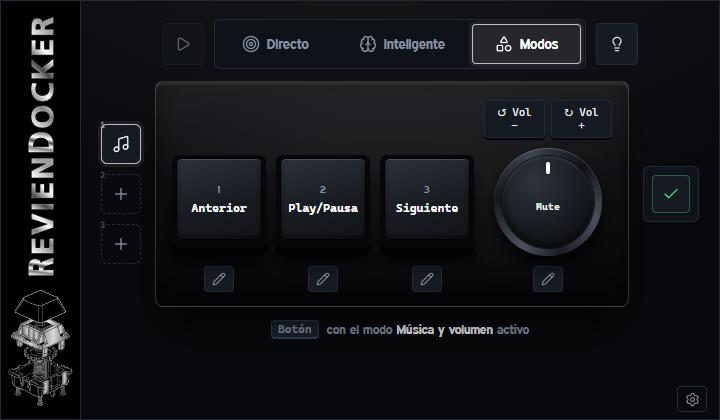
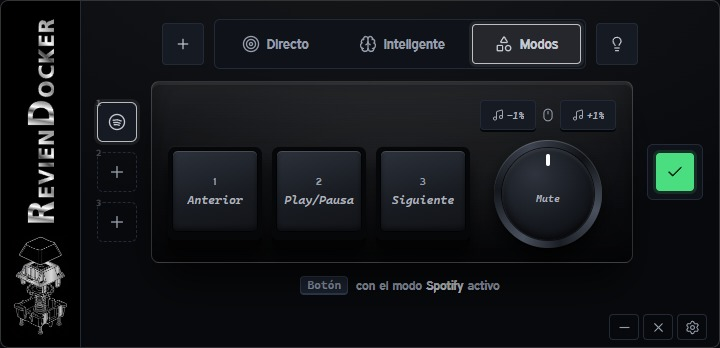
Ventana más compacta (720x348), título con R y D grandes, clic derecho recoloca la ventana (0.1.4)

diff --git a/web/studio.js b/web/studio.js
@@ -637,7 +637,7 @@ function renderTplView(menu) {
   menu.append(head, el("div", "mode-menu-sub", "Plantillas"), base, el("div", "mode-menu-sub", `Mis modos · ${S.library.length}/${MY_MAX}`), mine);
   if (selectedPreset) {
     const preview = presetPreview(selectedPreset); menu.appendChild(preview);
-    preview.scrollIntoView({ block: "nearest" });   // en la ventana de 420 px la vista previa queda a la vista sin saltar el resto
+    preview.scrollIntoView({ block: "nearest" });   // en la ventana de 348 px la vista previa queda a la vista sin saltar el resto
   }
 }
 function presetPreview(p) {
@@ -957,6 +957,12 @@ $("btnNewLayer").addEventListener("click", () => {
 // La ventana no tiene barra: se arrastra desde cualquier zona que no sea interactiva (pywebview solo arrastra desde elementos con esta clase).
 const INTERACTIVE = "button,input,select,textarea,summary,a,label,kbd,[role=radio],[role=switch],[role=button],[tabindex],.keycap,.enc-dir,.knob";
 window.addEventListener("mousedown", e => { if (e.button === 0 && e.target instanceof Element && !e.target.closest(INTERACTIVE)) e.target.classList.add("pywebview-drag-region"); }, true);
+// Clic derecho en una zona de arrastre: la ventana vuelve a la esquina inferior derecha, sobre la barra de tareas.
+window.addEventListener("contextmenu", e => {
+  if (!API.desktop || !(e.target instanceof Element) || e.target.closest(INTERACTIVE)) return;
+  e.preventDefault();
+  api("/api/window", { action: "corner" }).catch(() => {});
+}, true);
 
 document.querySelectorAll("[data-win]").forEach(b => b.addEventListener("click", () => api("/api/window", { action: b.dataset.win }).catch(() => toast("No se pudo cambiar la ventana", true))));
 

diff --git a/web/studio.css b/web/studio.css
@@ -437,8 +437,8 @@ details[open] > summary .chev { transform: rotate(180deg); }
 .brand-rail img { pointer-events: none; user-select: none; }
 /* El título va en vector (assets/wordmark.svg), girado: así siempre dice RevienDocker. El dibujo es el interruptor de la imagen definitiva. */
 .brand-word { position: relative; flex: 1; width: 100%; min-height: 0; }
-.brand-word img { position: absolute; top: 50%; left: 50%; width: 262px; transform: translate(-50%, -50%) rotate(-90deg); }
-.brand-switch { display: block; flex: none; width: 100%; height: auto; }
+.brand-word img { position: absolute; top: 50%; left: 50%; width: 204px; transform: translate(-50%, -50%) rotate(-90deg); }
+.brand-switch { display: block; flex: none; width: 84%; height: auto; }
 .app-main { flex: 1; min-width: 0; display: flex; flex-direction: column; }
 .scroll { padding-top: 18px; }
 .stage { gap: 10px; }

diff --git a/src/studio_app.py b/src/studio_app.py
@@ -34,7 +34,7 @@ from version import __version__
 
 TITLE = "RevienDocker"
 # Ventana de tamaño fijo (PRODUCT.md): no se redimensiona ni se maximiza.
-WIN_W, WIN_H = 720, 420
+WIN_W, WIN_H = 720, 348
 CORNER_MARGIN = 12   # px entre la ventana y los bordes del área útil al abrir
 OFFSCREEN = -32000   # la ventana nace fuera de pantalla y solo se muestra ya colocada: sin parpadeo en otra esquina
 MUTEX_NAME = "Local\\RevienDocker_SingleInstance_Mutex"
@@ -128,10 +128,10 @@ def main():
 
     placed = []
 
-    def place_corner():
-        """Posición inicial: esquina inferior derecha del área útil del monitor principal (justo sobre la barra de tareas).
-        Solo al abrir; la ventana nace fuera de pantalla y esta es la primera vez que se ve."""
-        if placed:
+    def place_corner(force=False):
+        """Esquina inferior derecha del área útil del monitor principal (justo sobre la barra de tareas). Se coloca sola al abrir
+        (la ventana nace fuera de pantalla y esta es la primera vez que se ve) y, con force, cuando el usuario la pide."""
+        if placed and not force:
             return
         placed.append(True)
         user32 = ctypes.windll.user32
@@ -219,6 +219,8 @@ def main():
                 quit_app()
         elif action in ("show", "restore"):
             show_window()
+        elif action == "corner":
+            place_corner(force=True)  # clic derecho en una zona de arrastre: vuelve a su sitio de siempre
 
     app.StudioHandler.window_control = control
     tray = pystray.Icon("revien-docker", icon_image(64), f"{TITLE} {__version__}", menu=pystray.Menu(

diff --git a/src/app.py b/src/app.py
@@ -179,7 +179,7 @@ ENGINE.mode_light = MODE_LIGHT
 BASE_DIR = RESOURCE_DIR
 PORT = 8765
 # Acciones permitidas en /api/window (las resuelve studio_app.py; cualquier otra se rechaza).
-WINDOW_ACTIONS = ("minimize", "maximize", "close", "show", "restore",
+WINDOW_ACTIONS = ("minimize", "maximize", "close", "show", "restore", "corner",
                   "resize-n", "resize-s", "resize-e", "resize-w",
                   "resize-ne", "resize-nw", "resize-se", "resize-sw")
 

diff --git a/PRODUCT.md b/PRODUCT.md
@@ -34,15 +34,15 @@ Un docker físico con tres formas de uso sobre el mismo aparato y la misma panta
 
 ### Estructura canónica (Decisión)
 Idéntica en Directo, Inteligente y Modos; no se inventan variantes por modo:
-- **Lateral izquierdo (0.0.8):** el logotipo definitivo a toda la altura (título «REVIENDOCKER» en vector, girado, y el dibujo del interruptor). Sustituye a la barra superior, que **ya no existe**. Es también zona de arrastre de la ventana.
+- **Lateral izquierdo (0.0.8):** el logotipo definitivo a toda la altura (título «REVIENDOCKER» en vector, girado, con R y D grandes y el resto en versalitas más pequeñas, y el dibujo del interruptor al 84 % del ancho). `tools/` no lo genera: el SVG se rehízo a partir de los trazados originales. Sustituye a la barra superior, que **ya no existe**. Es también zona de arrastre de la ventana.
 - **Franja inferior (0.0.8):** minimizar, cerrar y la rueda dentada de **ajustes**, discretos, abajo a la derecha. **Toda zona no interactiva** de la ventana (lateral, fondos, textos, huecos de la franja) arrastra la ventana; botones, campos y teclas no.
 2. **Selector:** botón contextual + selector Directo / Inteligente / Modos + luz (solo la bombilla, mismo tamaño y aspecto que el botón de la izquierda, para que la fila quede simétrica).
 3. **Fila del docker:** tres iconos a la izquierda + docker (3 teclas y rueda, sin lápices bajo las piezas) + ✓ y × a la derecha. El carril izquierdo y la botonera derecha están **a la misma distancia** del docker.
 4. **Mensaje informativo centrado** debajo.
 
 ### Ventana (Decisión)
-- **Tamaño fijo, 720 × 420.** No se redimensiona, no se maximiza, no se expande ni se colapsa. Sin botón de maximizar; el doble clic en la barra y el arrastre de bordes no hacen nada. Minimizar y cerrar se mantienen.
-- **Posición inicial:** esquina inferior derecha del área útil (sobre la barra de tareas, 12 px de margen). Después se puede arrastrar; se recoloca solo al abrir. La ventana nace fuera de pantalla y solo se muestra ya colocada (sin parpadeo en otra esquina).
+- **Tamaño fijo, 720 × 348** (0.1.4; antes 720 × 420, con una franja vacía bajo el mensaje). No se redimensiona, no se maximiza, no se expande ni se colapsa. Sin botón de maximizar; el doble clic en la barra y el arrastre de bordes no hacen nada. Minimizar y cerrar se mantienen.
+- **Posición inicial:** esquina inferior derecha del área útil (sobre la barra de tareas, 12 px de margen). Después se puede arrastrar; **clic derecho en cualquier zona de arrastre** la devuelve a esa esquina; se recoloca solo al abrir. La ventana nace fuera de pantalla y solo se muestra ya colocada (sin parpadeo en otra esquina).
 - Sin margen muerto: el contenido llena el marco. Espacios verticales compactos entre barra, selector, docker y mensaje.
 - Los menús son **capas superpuestas** sobre el docker, nunca debajo ni en flujo; deben caber en la ventana y, si algo no cabe, desplazan por dentro.
 - Los menús terminan donde acaba el docker y no tapan el mensaje de abajo.
@@ -59,7 +59,7 @@ Perfiles guardables desde «+» junto a Directo, cada uno con nombre e icono. Lo
 - **«Añadir app»** y «Atajos para» comparten formato de chips con **icono + nombre corto**, sin párrafos. Las apps abiertas entran en una cuadrícula compacta; el campo «O escribe el programa» y «Cerrar» siguen a la vista.
 
 ### Modos (Decisión)
-- Tres huecos, cada uno con nombre e icono elegidos por el usuario (17 iconos y, al final de la fila, un «+» discreto de borde discontinuo que despliega 34 de apps y marcas; si el icono actual es de una app, la fila sale abierta; todo cabe en la ventana de 720 × 420). Ctrl+Shift+1/2/3 activa; repetir vuelve a Directo.
+- Tres huecos, cada uno con nombre e icono elegidos por el usuario (17 iconos y, al final de la fila, un «+» discreto de borde discontinuo que despliega 34 de apps y marcas; si el icono actual es de una app, la fila sale abierta; todo cabe en la ventana de 720 × 348). Ctrl+Shift+1/2/3 activa; repetir vuelve a Directo.
 - **Confirmación física (0.1.0):** la pulsación de cambio de modo enciende brevemente la tecla del macropad (unos 450 ms), incluso con luz Apagada; después se restaura la preferencia. Es un aviso de entrada/salida, no un indicador permanente. En Al pulsar se conserva el efecto nativo. Cambiar el hueco desde la interfaz no genera un aviso físico: el firmware recuerda la última tecla del aparato, no una selección por software.
 - **Una sola puerta a plantillas y Mis modos:** los tres iconos del carril seleccionan el hueco; el botón «+» superior abre su menú (nombre, icono, Guardar en Mis modos, Quitar del hueco), o las plantillas y Mis modos si está libre.
 - **Plantillas como chips** con icono y nombre; la descripción va en una línea al elegir, no en cada tarjeta.
@@ -71,7 +71,7 @@ Perfiles guardables desde «+» junto a Directo, cada uno con nombre e icono. Lo
 `src/volume_overlay.py`: 280 × 56 px, siempre visible, sin foco, fuera de la barra de tareas, esquina inferior derecha del área útil con 16 px de margen, 1,8 s. Icono y nombre. No es una notificación del Centro de actividades.
 
 ### Técnicas
-Estructura: `src/` (Python), `web/` (interfaz y assets), `docs/`, `tools/`, `tests/`. Interfaz estática, sin build ni dependencias de front. Ventana de escritorio fija de 720 × 420 (`WIN_W, WIN_H` en `src/studio_app.py`). Iconos Lucide generados (`tools/build_icons.py`, 68 iconos) más 34 propios de apps y suites (`tools/custom_icons.py`: dibujados a mano, sin copiar de ningún paquete). No se ofrecen para elegir: salen solos al detectar el programa (`APP_ICONS` en `web/studio.js`, gana la primera coincidencia). Estado `S` en `localStorage` `botonera.studio.v2` y `studio.json`. Los originales y datos de cada persona no salen del PC.
+Estructura: `src/` (Python), `web/` (interfaz y assets), `docs/`, `tools/`, `tests/`. Interfaz estática, sin build ni dependencias de front. Ventana de escritorio fija de 720 × 348 (`WIN_W, WIN_H` en `src/studio_app.py`). Iconos Lucide generados (`tools/build_icons.py`, 68 iconos) más 34 propios de apps y suites (`tools/custom_icons.py`: dibujados a mano, sin copiar de ningún paquete). No se ofrecen para elegir: salen solos al detectar el programa (`APP_ICONS` en `web/studio.js`, gana la primera coincidencia). Estado `S` en `localStorage` `botonera.studio.v2` y `studio.json`. Los originales y datos de cada persona no salen del PC.
 
 ## Brand Commitments
 

diff --git a/docs/GUIA_USUARIO.md b/docs/GUIA_USUARIO.md
@@ -8,7 +8,7 @@ Un programador para el macropad de 3 teclas + 1 rueda (chip WCH CH57x). El tecla
 
 ## 2. Arrancar
 
-**Como programa (recomendado):** abre el acceso directo «RevienDocker» del escritorio (o `dist\RevienDocker.exe`). Es una ventana propia, sin marco de Windows: abajo a la derecha tiene minimizar, cerrar y los ajustes (rueda dentada). No tiene botón en la barra de tareas: vive en la bandeja, y minimizar la guarda ahí. Para moverla, arrastra cualquier zona que no sea un botón o un campo. Su tamaño es fijo.
+**Como programa (recomendado):** abre el acceso directo «RevienDocker» del escritorio (o `dist\RevienDocker.exe`). Es una ventana propia, sin marco de Windows: abajo a la derecha tiene minimizar, cerrar y los ajustes (rueda dentada). No tiene botón en la barra de tareas: vive en la bandeja, y minimizar la guarda ahí. Para moverla, arrastra cualquier zona que no sea un botón o un campo; con clic derecho en una de esas zonas vuelve a su esquina inferior derecha. Su tamaño es fijo.
 - RevienDocker debe estar abierto o en la bandeja para que el motor ejecute las acciones de los controles.
 - Minimizar siempre la oculta en la bandeja (junto al reloj) y el motor sigue activo. Cerrar también, salvo que no haga falta el motor. Al abrirla aparece abajo a la derecha, sin saltos. Salir del todo: clic derecho en su icono → Salir.
 - En el menú del icono de la bandeja puedes elegir **Minimizar a la bandeja** o **Mostrar RevienDocker**, según esté visible u oculta. El motor continúa activo mientras la app esté en la bandeja.
@@ -54,7 +54,7 @@ El selector de modo encabeza la pantalla y el Docker aparece debajo. Pulsa un co
 - **Enchufe:** busca el teclado de nuevo.
 - **Columna derecha del visor (`✓` / `×`):** pegada a la derecha del dibujo del docker sin desplazar su centro. El botón **`✓`** escribe/aplica los cambios y se ilumina en **rojo completo** cuando hay cambios sin aplicar o el teclado no está preparado; debajo aparece **`×`** para descartar los cambios pendientes.
 - **Minimizar / cerrar:** junto a la rueda dentada; la ventana es propia (solo en el programa de escritorio).
-- **Tamaño fijo (720 × 420):** no se redimensiona ni se maximiza. Los menús se abren como capa sobre el docker y caben dentro de la ventana.
+- **Tamaño fijo (720 × 348):** no se redimensiona ni se maximiza. Los menús se abren como capa sobre el docker y caben dentro de la ventana.
 
 ### ① El teclado (centro)
 - **Directo / Inteligente** está justo encima: es el modo de trabajo (ver sección 2b).

diff --git a/CHANGELOG.md b/CHANGELOG.md
@@ -9,6 +9,8 @@ La versión actual está en `src/version.py` y en el nombre de la etiqueta de Gi
 - Los tres huecos de la izquierda en Directo son accesos a tres perfiles: un clic usa el perfil al momento, se marca el activo y un hueco libre abre la lista para elegir. Cada perfil tiene icono propio (selector como en Mis modos) y tres marcas 1/2/3 para ponerlo o quitarlo de un hueco. Un perfil nuevo ocupa el primer hueco libre.
 
 ### Cambiado
+- La ventana pasa de 720 × 420 a 720 × 348: se quita la franja vacía bajo el mensaje. El lateral se reajusta: el título gana tamaño en la R y la D y el resto va en versalitas más pequeñas, y el dibujo del interruptor se reduce un 16 %.
+- Clic derecho en una zona de arrastre devuelve la ventana a la esquina inferior derecha, sobre la barra de tareas.
 - Minimizar manda la ventana a la bandeja, siempre. La app ya no tiene botón en la barra de tareas ni en Alt+Tab: solo se ve en la bandeja del sistema.
 - Los perfiles guardados antes reciben identificador e icono sin perder nada.
 

diff --git a/README.md b/README.md
@@ -55,7 +55,7 @@ En los tres: teclado, multimedia y desplazamiento del ratón; cada giro de la ru
 ## Ventana
 
 - La ventana tiene tamaño fijo: no se redimensiona ni se maximiza. Al abrirse aparece en la esquina inferior derecha, sobre la barra de tareas. Solo vive en la bandeja del sistema: minimizar la guarda ahí y no ocupa la barra de tareas.
-- Abajo a la derecha están minimizar, cerrar y los ajustes (rueda dentada: estado del teclado y del motor, y buscar el teclado). No hay barra de título: la ventana se mueve arrastrando cualquier zona que no sea un botón o un campo.
+- Abajo a la derecha están minimizar, cerrar y los ajustes (rueda dentada: estado del teclado y del motor, y buscar el teclado). No hay barra de título: la ventana se mueve arrastrando cualquier zona que no sea un botón o un campo, y con clic derecho en una de esas zonas vuelve a su esquina.
 
 ## Estructura del repositorio
 
